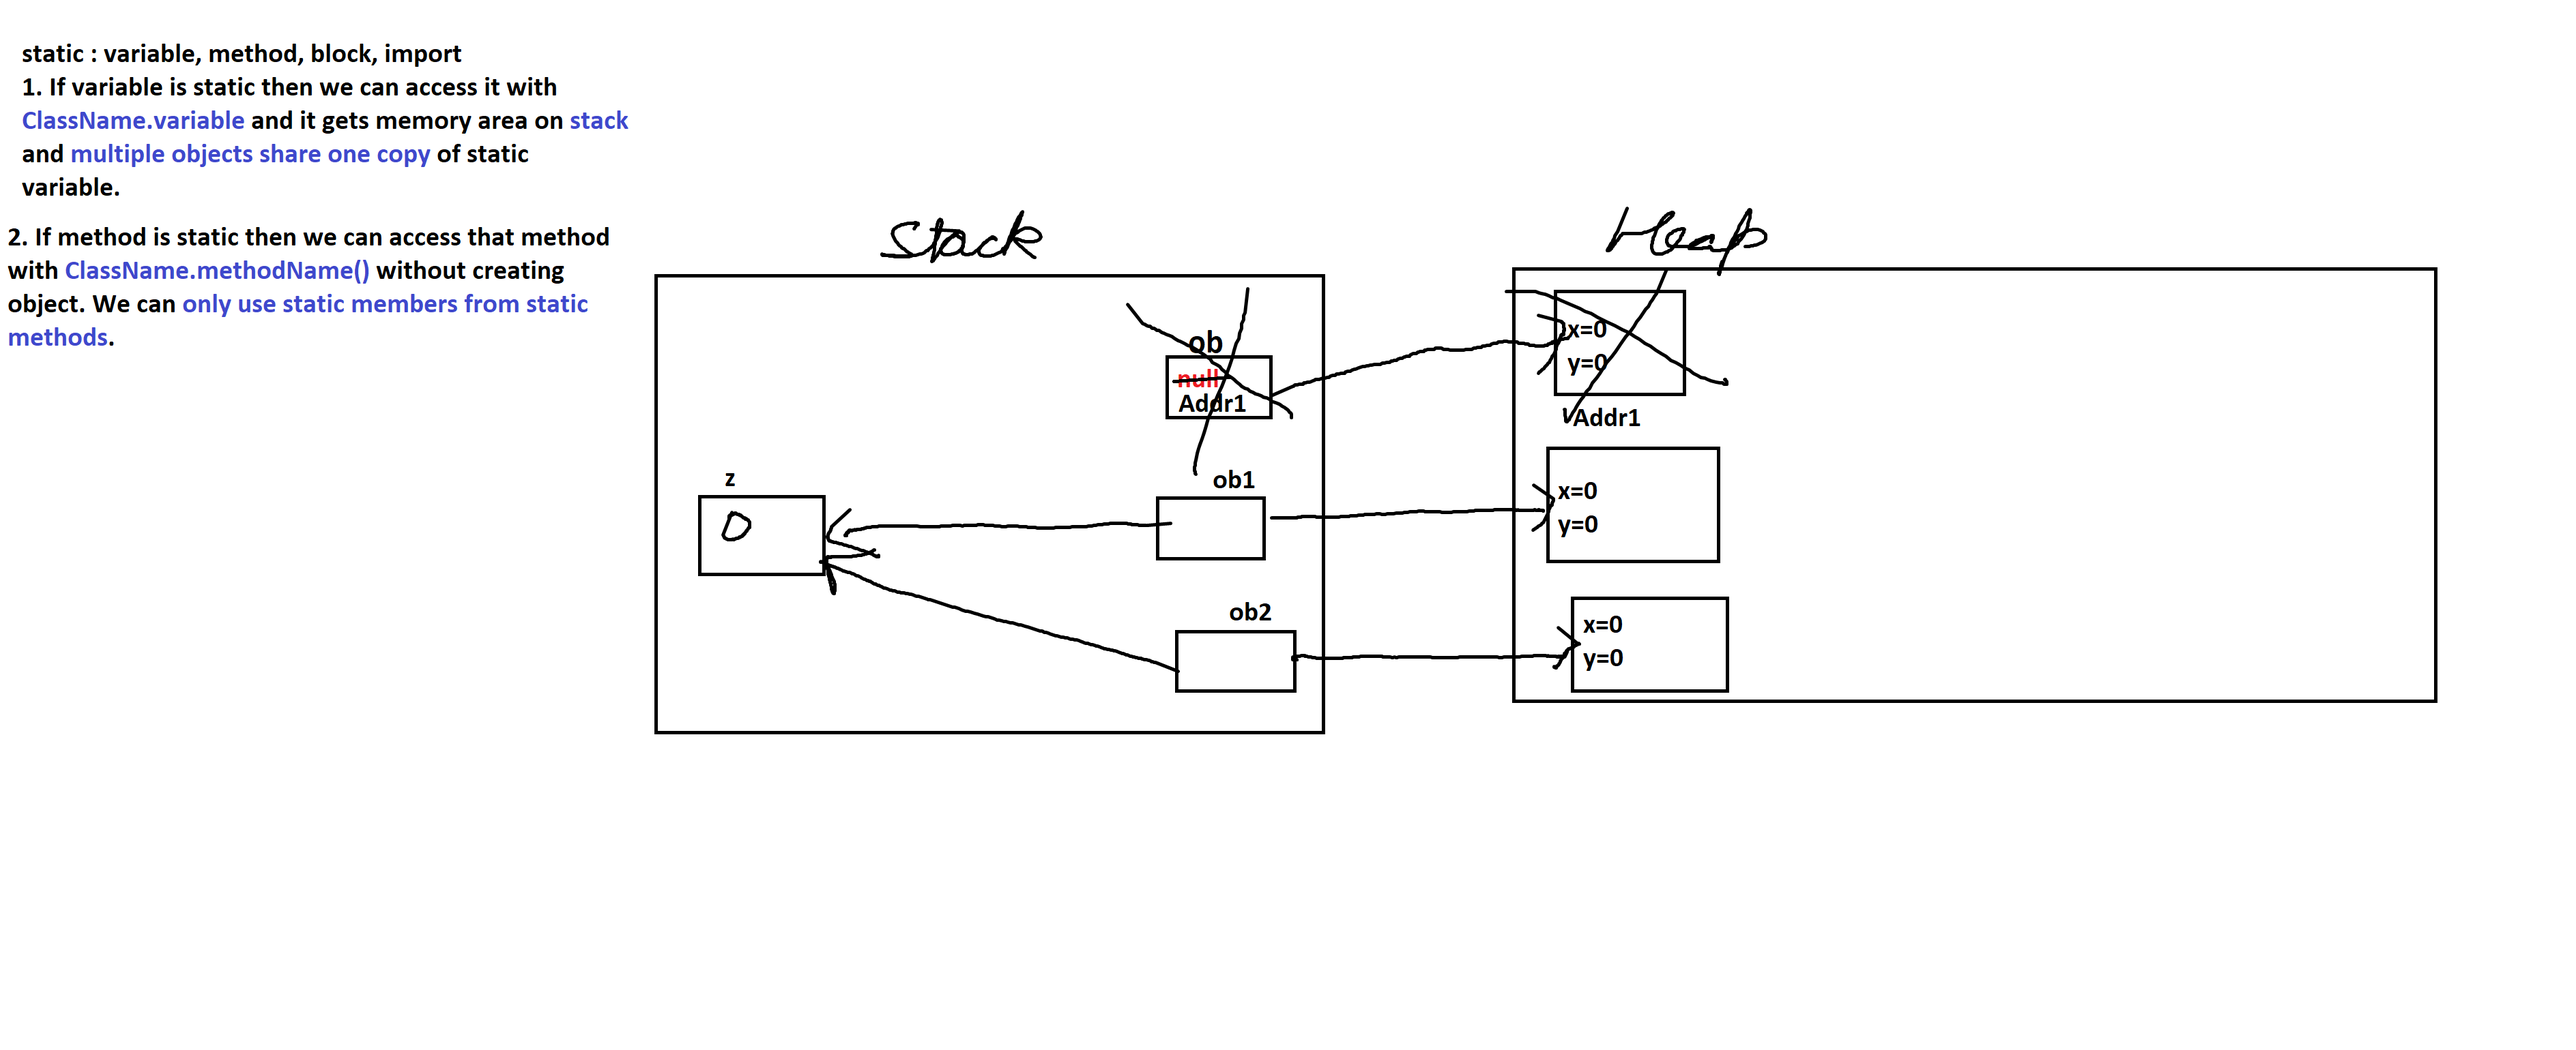
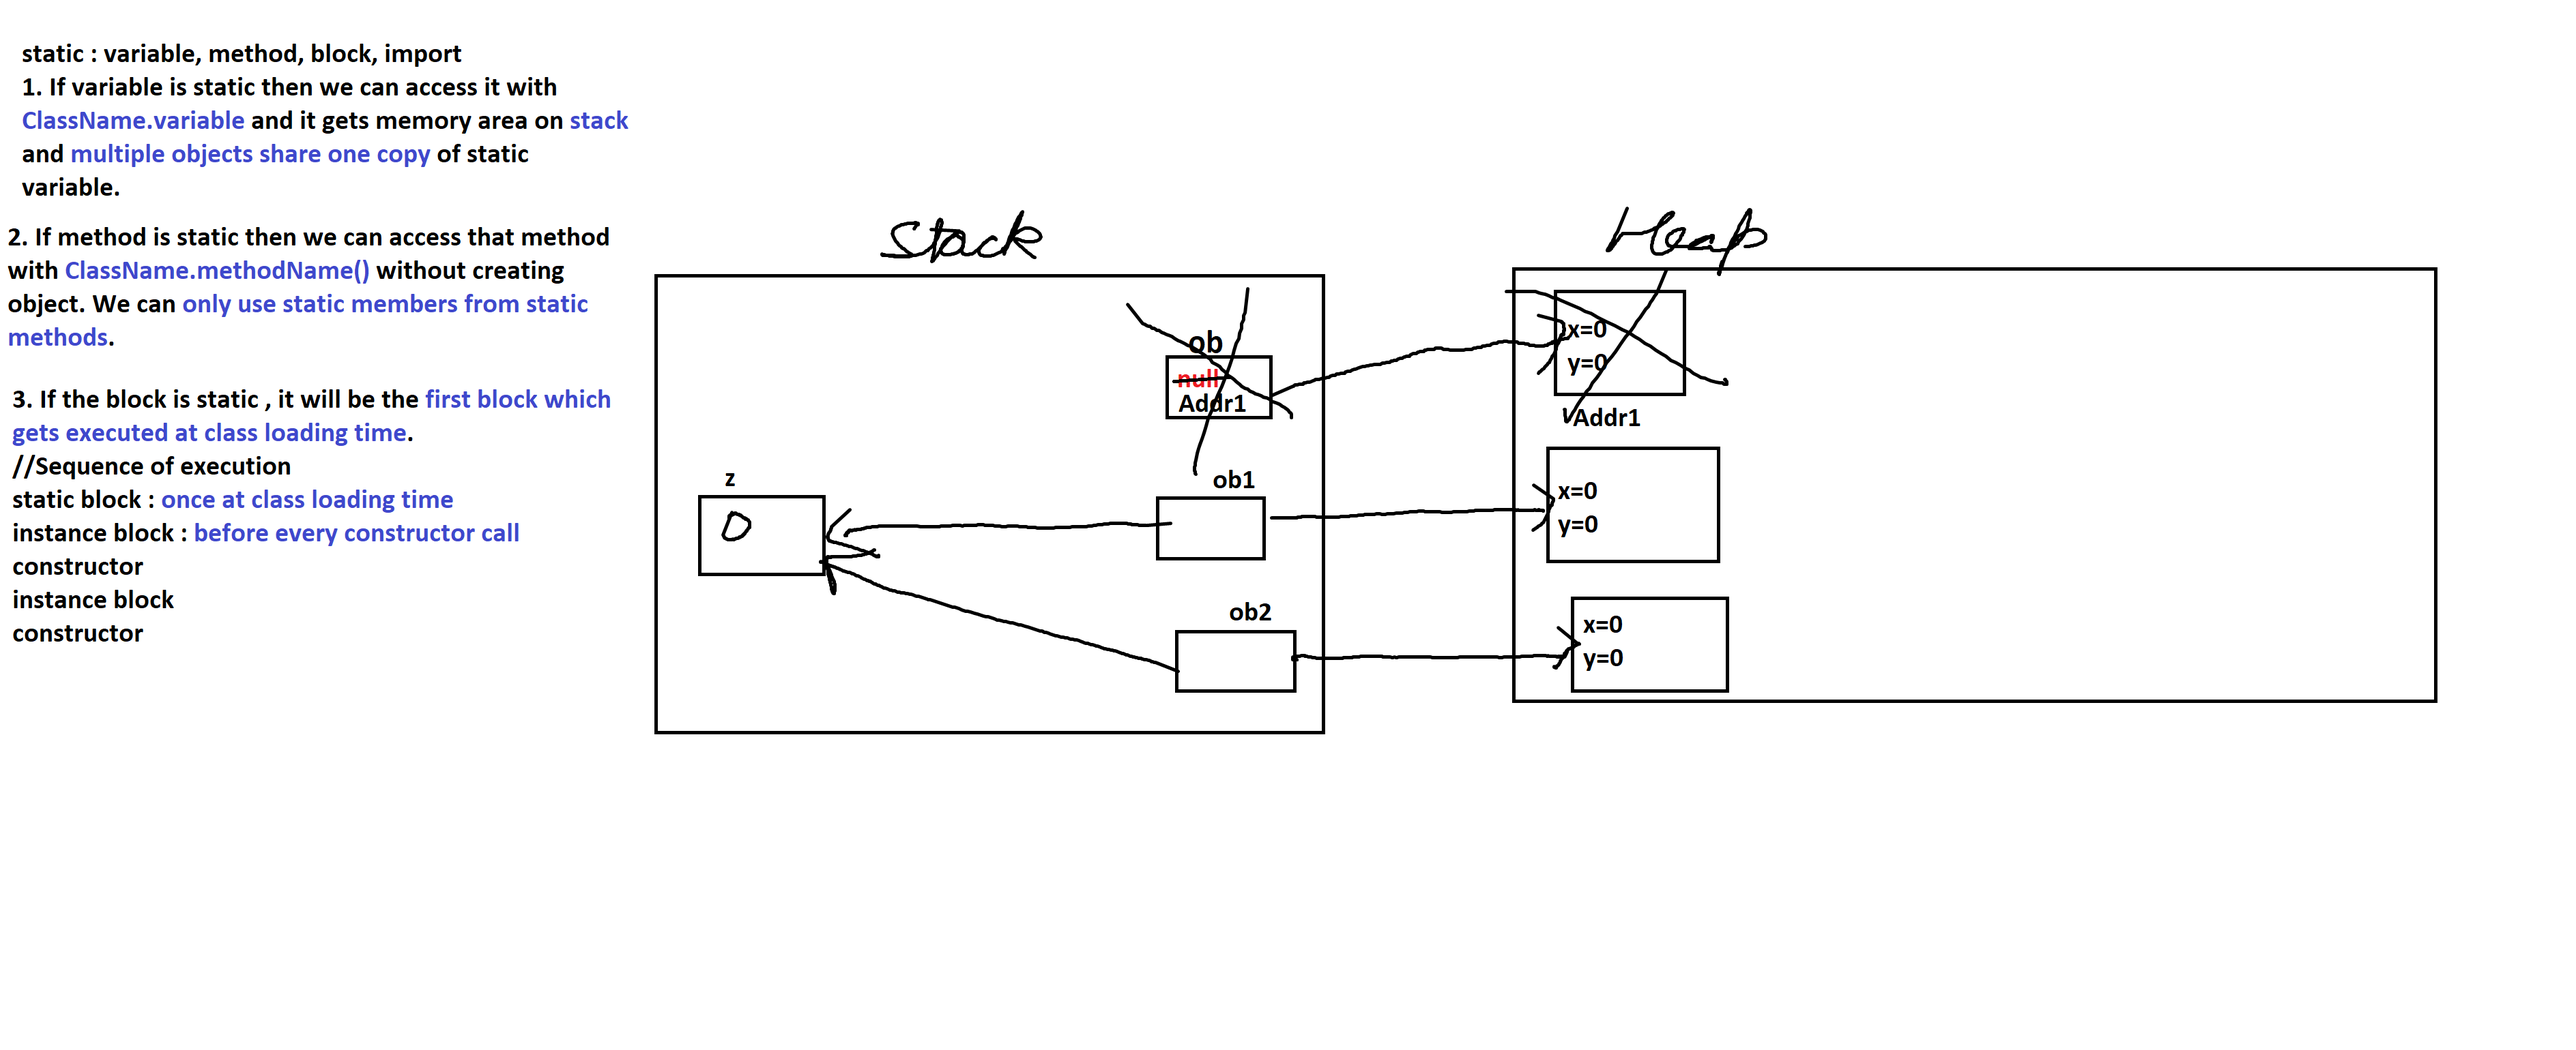
Add files via upload

Changed region(s): [[0.0, 0.374, 0.2479, 0.6234]]

diff --git a/Day3/MyStaticDemoProject/src/com/sujata/demo/MyFourthStaticDemo.java b/Day3/MyStaticDemoProject/src/com/sujata/demo/MyFourthStaticDemo.java
@@ -1,0 +1,44 @@
+package com.sujata.demo;
+
+public class MyFourthStaticDemo {
+
+	public void methodOne() {
+		System.out.println("Hi I am methodOne");
+	}
+	
+	static public void methodTwo() {
+		System.out.println("Hi I am methodTwo");
+	}
+	
+	public void methodThree() {
+		System.out.println("Hi I am methodThree");
+	}
+	
+	static public void methodFour() {
+		System.out.println("Hi I am methodFour");
+	}
+	
+	public void methodFive() {
+		System.out.println("Hi I am methodFive");
+	}
+	
+	static public void methodSix() {
+		System.out.println("Hi I am methodSix");
+	}
+	
+	public void methodSeven() {
+		System.out.println("Hi I am methodSeven");
+	}
+	
+	public void methodEight() {
+		System.out.println("Hi I am methodEight");
+	}
+	
+	public void methodNine() {
+		System.out.println("Hi I am methodNine");
+	}
+	
+	public void methodTen() {
+		System.out.println("Hi I am methodTen");
+	}
+}

diff --git a/Day3/MyStaticDemoProject/src/com/sujata/demo/MyThirdStaticDemoMain.java b/Day3/MyStaticDemoProject/src/com/sujata/demo/MyThirdStaticDemoMain.java
@@ -1,0 +1,28 @@
+package com.sujata.demo;
+
+
+class MyThirdStaticDemo {
+
+	static {
+		System.out.println("Hi I am static block");
+	}
+
+	{
+		System.out.println("Hi I am instance block");
+	}
+
+	public MyThirdStaticDemo() {
+		System.out.println("Hi I am MyThirdSaticDemo constructor!");
+	}
+}
+
+public class MyThirdStaticDemoMain {
+
+	public static void main(String[] args) {
+		MyThirdStaticDemo ob1=new MyThirdStaticDemo();
+		System.out.println("=================");
+		MyThirdStaticDemo ob2=new MyThirdStaticDemo();
+
+	}
+
+}

diff --git a/Day3/MyStaticDemoProject/src/com/sujata/training/MyFourthStaticDemoMain.java b/Day3/MyStaticDemoProject/src/com/sujata/training/MyFourthStaticDemoMain.java
@@ -1,0 +1,18 @@
+package com.sujata.training;
+
+/* 
+ * import all the static members of class MyFourthStaticDemo
+ * benefit of thsi kind of import is
+ * that while calling the static members we need not to use the class name
+ */
+import static com.sujata.demo.MyFourthStaticDemo.*;
+
+public class MyFourthStaticDemoMain {
+
+	public static void main(String[] args) {
+		methodTwo();
+		methodSix();
+
+	}
+
+}
